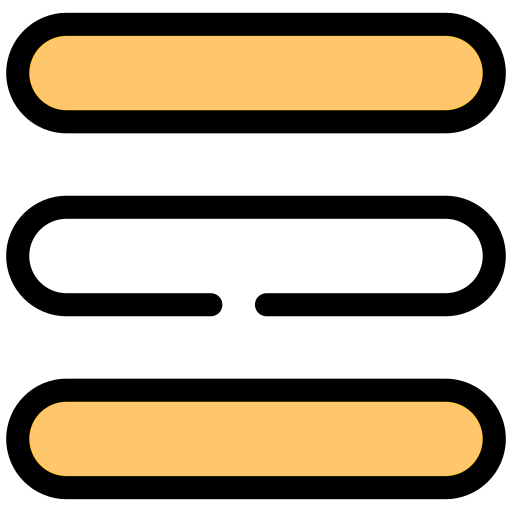
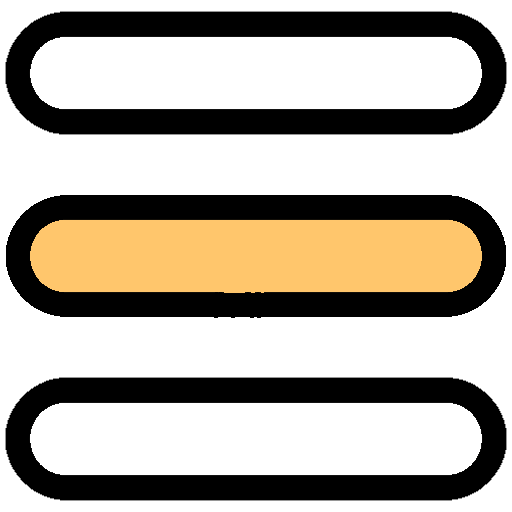
332

diff --git a/src/main_window.py b/src/main_window.py
@@ -1,8 +1,9 @@
-from PyQt5.QtCore import QSize, Qt
-from PyQt5.QtWidgets import QMainWindow, QWidget, QFrame, QPushButton, QGraphicsScene, QGraphicsView, QScrollArea
+from PyQt5.QtCore import QSize, Qt, QPropertyAnimation, QEasingCurve, QRect
+from PyQt5.QtWidgets import QMainWindow, QWidget, QFrame, QPushButton, QGraphicsScene, QGraphicsView, QVBoxLayout
 from PyQt5.QtGui import QColor, QIcon, QCursor
 from engine_frame import EngineFrame
 from moves_options_widget import MovesOptionsList
+from menu_widget import MenuWidget
 
 color_theme = ["#1E1F22", "#2B2D30", "#4E9F3D", "#FFC66C", "#FFFFFF"]
 
@@ -41,8 +42,8 @@ class MainWindow(QMainWindow):
         self.menu_btn.setStyleSheet(f"""
             QPushButton {{
                 background-color: {color_theme[1]};
-                border: 1px solid {color_theme[3]};
-                border-radius: 10px;
+                border: 2px solid {color_theme[3]};
+                border-radius: 5px;
             }}
             
             QPushButton:hover {{
@@ -50,6 +51,18 @@ class MainWindow(QMainWindow):
             }}
         """)
 
+        btn1= QPushButton("Zamknij")
+
+        self.menu_layout = QVBoxLayout()
+        self.menu_layout.addWidget(btn1)
+
+        self.menu_widget = QWidget(self)
+        self.menu_widget.setGeometry(-400, 100, 400, 800)
+        self.menu_widget.setStyleSheet(f"background-color: {color_theme[1]};")
+        self.menu_widget.setLayout(self.menu_layout)
+
+        self.menu_btn.clicked.connect(self.open_menu)
+        btn1.clicked.connect(self.close_menu)
     def resizeEvent(self, event):
         self.upadte_sizes()
 
@@ -60,4 +73,16 @@ class MainWindow(QMainWindow):
         self.moves_frame.update_size(self.size())
         self.engine_frame.update_size(self.size())
 
+    def open_menu(self):
+        self.menu_widget.animation = QPropertyAnimation(self.menu_widget, b"geometry", self.menu_widget)
+        self.menu_widget.animation.setDuration(1000)
+        self.menu_widget.animation.setStartValue(QRect(-400, 100, 400, 800))
+        self.menu_widget.animation.setEndValue(QRect(0, 100, 400, 800))
+        self.menu_widget.animation.start()
 
+    def close_menu(self):
+        self.menu_widget.animation = QPropertyAnimation(self.menu_widget, b"geometry", self.menu_widget)
+        self.menu_widget.animation.setDuration(1000)
+        self.menu_widget.animation.setStartValue(QRect(0, 100, 400, 800))
+        self.menu_widget.animation.setEndValue(QRect(-400, 100, 400, 800))
+        self.menu_widget.animation.start()

diff --git a/src/menu_widget.py b/src/menu_widget.py
@@ -1,0 +1,19 @@
+from PyQt5.QtWidgets import QWidget, QFrame, QHBoxLayout, QLabel, QPushButton, QMenu
+from PyQt5.QtGui import QCursor, QIcon, QFontDatabase, QFont
+from PyQt5.QtCore import Qt, QSize
+from settings_dialog import SettingsDialog
+
+color_theme = ["#1E1F22", "#2B2D30", "#4E9F3D", "#FFC66C", "#FFFFFF"]
+
+
+class MenuWidget(QWidget):
+    def __init__(self, parent=None):
+        super().__init__(parent)
+
+        self.setGeometry(0, 100, 200, 200)
+        self.setObjectName("menu-widget")
+        self.setStyleSheet(f"""
+        #menu-widget {{
+            background-color: green;
+        }}""")
+

diff --git a/src/moves_options_widget.py b/src/moves_options_widget.py
@@ -29,7 +29,7 @@ class MovesOptionsList(QScrollArea):
           QPixmap("../resources/pieces/w_rook.png").scaled(20, 20)]
 
         self.coil_width = 100
-        self.coil_height = 40
+        self.coil_height = 50
 
         self.head_layout = QGridLayout()
         self.head_layout.setContentsMargins(0, 0, 0, 0)
